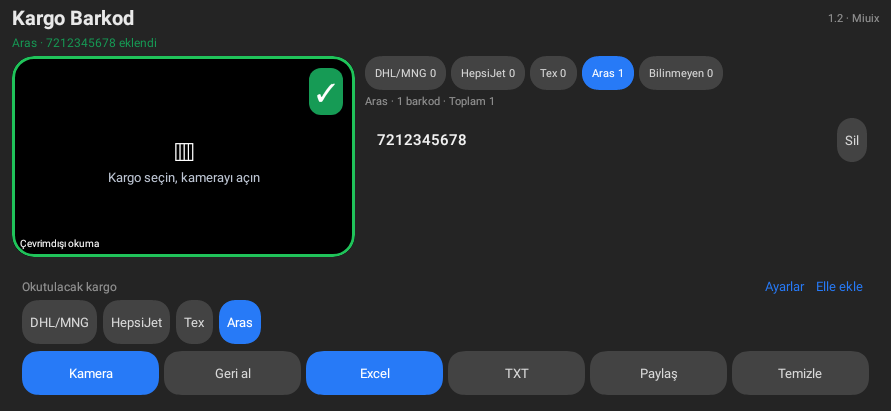
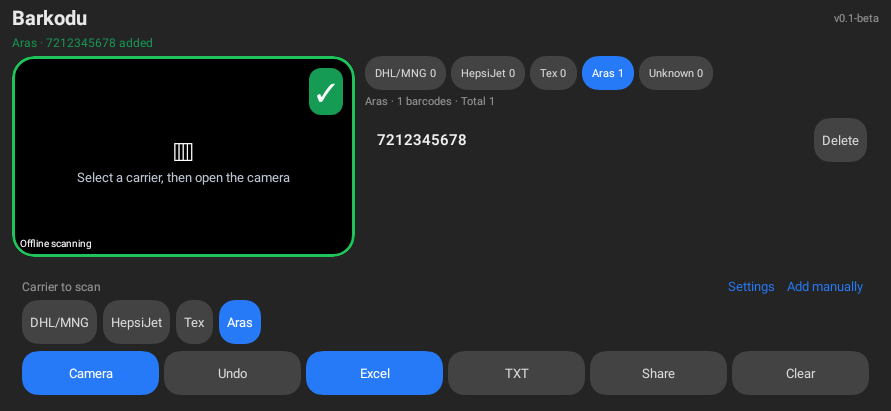
Prepare English v0.1-beta

diff --git a/KargoAndroid/README.md b/KargoAndroid/README.md
@@ -1,26 +1,15 @@
-# Kargo Barkod Android uygulaması
+# Barkodu Android — v0.1-beta
 
-Android 6 ve üzeri için yerel CameraX ve çevrimdışı ML Kit barkod okuyucu. Kamera ve liste aynı ekranda; dört kargo, Bilinmeyen sekmesi, tekrar sayısı, geri alma, Excel ve TXT paylaşımı bulunur.
+Native CameraX and offline ML Kit barcode scanning for Android 6 and later, with a Miuix Compose interface.
 
-Android Studio ile bu klasörü açın. SDK 36 gerekir. Kurulum APK dosyası üst klasörde KargoBarkod-1.0.apk olarak bulunur. Yerel kurulum için debug anahtarıyla imzalanmış release derlemesidir. GitHub beta yayını: https://github.com/omertrans678/Barkodu/releases/tag/v0.1-beta
+Select DHL/MNG, HepsiJet, Tex or Aras before scanning. Unmatched barcodes go to Unknown. Scan horizontally or vertically, add codes manually, undo changes, and export Excel or TXT files.
 
-Doğrulama: release derlemesi, APK imzası ve dört birim testi başarılı. Gerçek cihaz kamera ve ekran testi henüz yapılmamıştır.
+A barcode held in view is added once. Remove it from view for at least 500 ms before presenting it again to count another order. Different codes are accepted immediately. The optional repeat warning is saved between launches.
 
+Open this directory in Android Studio. Use Android SDK 36, JDK 17+ and Gradle 9.1.0. Run `gradle testDebugUnitTest assembleRelease`; add `-PphoneApk` for ARM phones. Local signing keys and SDK paths are excluded from Git.
 
-## Sürüm 1.1 — Miuix
+The test suite contains 4 model/export tests, 6 scan gate tests and 3 UI tests. Real phone camera testing is pending.
 
-Miuix 0.8.8 ve Jetpack Compose ile açık/koyu tema, yuvarlak kartlar ve altta kargo/işlem düğmeleri. Dikeyde kamera üstte ve liste altta; yatayda yan yana. Barkod ve dışa aktarma kuralları korunur. Aynı paket adı ve imza ile 1.0 üzerine kurulabilir. Liste verisi aynı SharedPreferences kaydında korunur.
+[Download the beta](https://github.com/omertrans678/Barkodu/releases/tag/v0.1-beta).
 
-Kaynak: https://github.com/compose-miuix-ui/miuix (Apache 2.0). Lisans APK assets içinde bulunur.
-
-Doğrulama: 4 model/Excel testi ve 2 Miuix ekran testi (dikey iş akışı, yatay koyu tema) geçti. Release derlemesi, APK imzası ve 16 KB hizalaması doğrulandı. 1.0 ile imza eşleşir. Gerçek telefon kamera testi yapılmadı.
-
-
-## Sürüm 1.2 — Tekrar okuma koruması
-
-Kamerada tutulan barkod tekrar eklenmez. Kısa okuma kayıpları kilidi açmaz; en az 500 ms boyunca tekrarlanan boş sonuçlardan sonra aynı kod ikinci sipariş olarak sayılabilir. Farklı kodlar beklemeden eklenir. Kamera kapatıp açılması ve ekran dönüşü aynı kodun kilidini açmaz.
-
-Ayarlar > Tekrar okuma uyarısı varsayılan olarak açıktır, tercih kalıcıdır. Barkod tutulurken bir kez kısa bildirim gösterilir. Uyarıyı kapatmak tekrar korumasını kapatmaz.
-
-13 test geçti: 4 model/Excel, 6 okuma kilidi ve 3 Miuix ekran testi. Güncelleme imzası ve APK hizalaması doğrulandı. Gerçek telefon kamera testi yapılmadı.
-
+Miuix: https://github.com/compose-miuix-ui/miuix (Apache 2.0). The license is included in APK assets.
